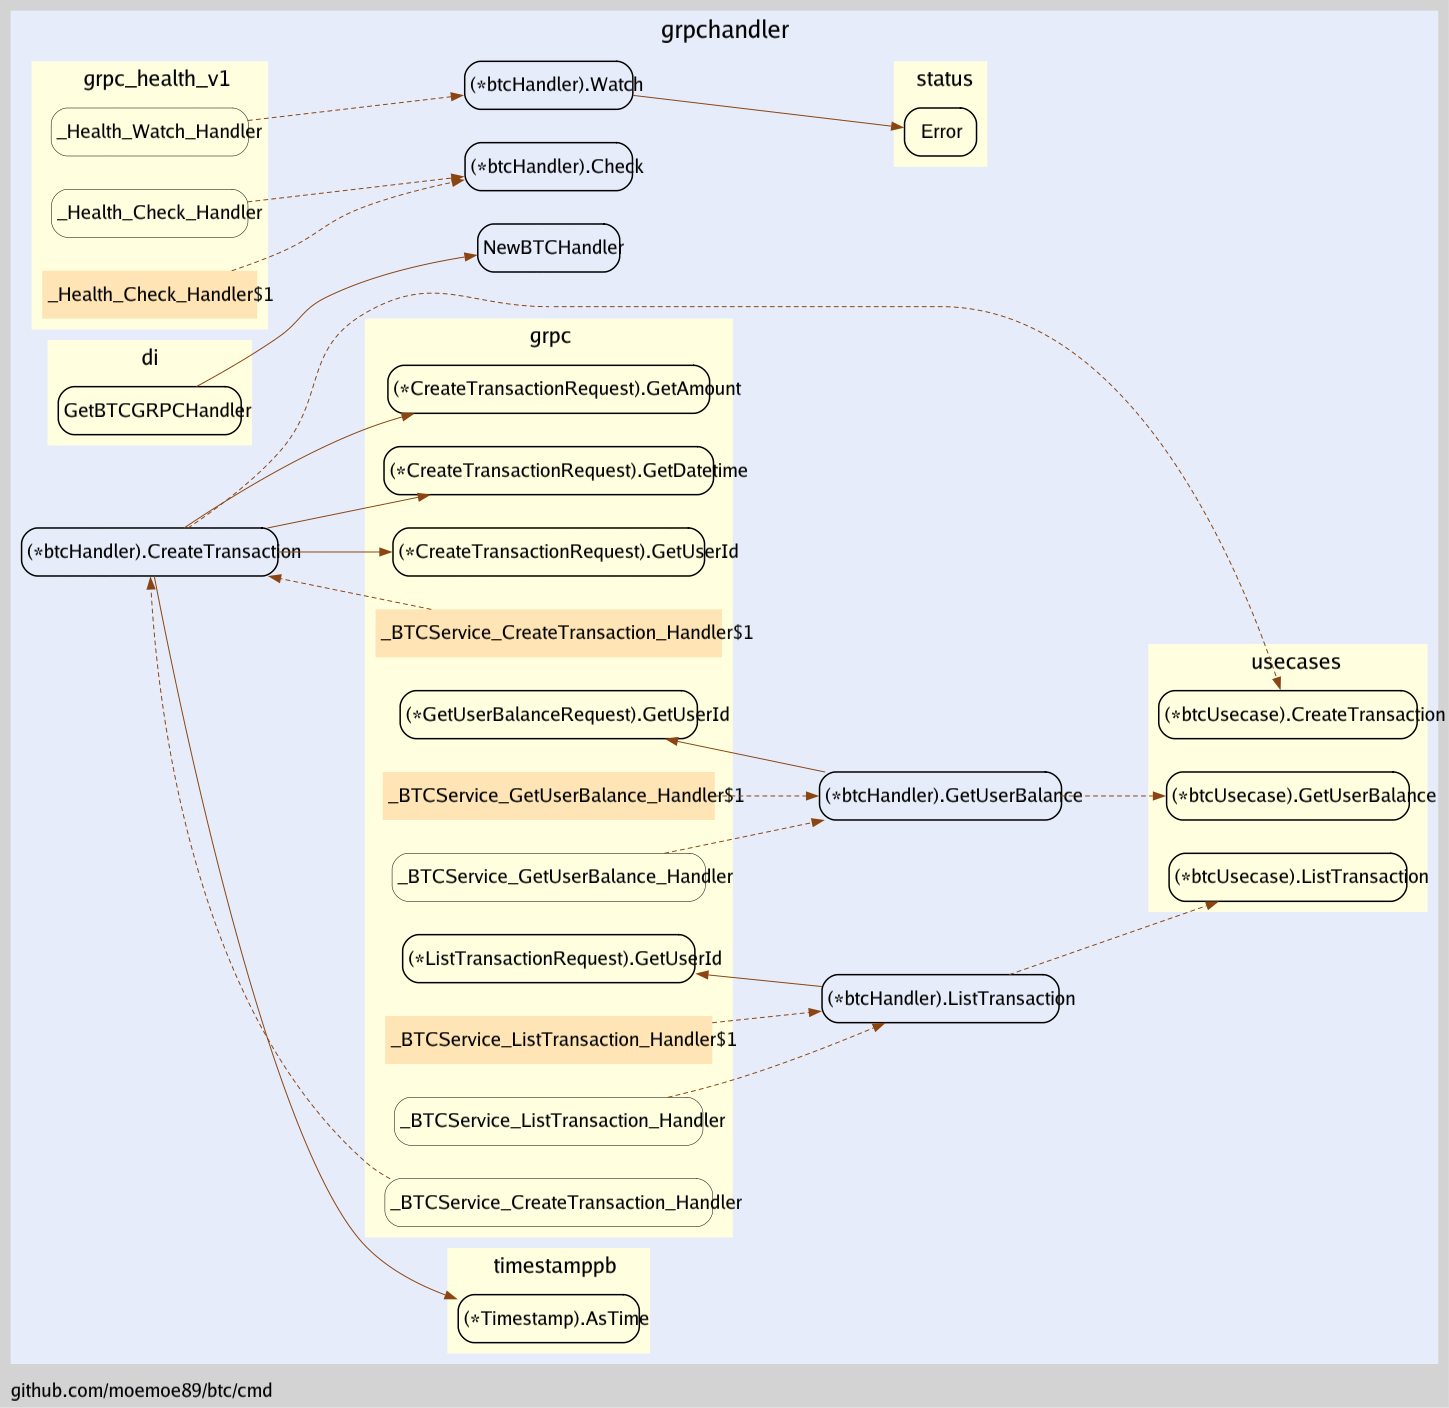
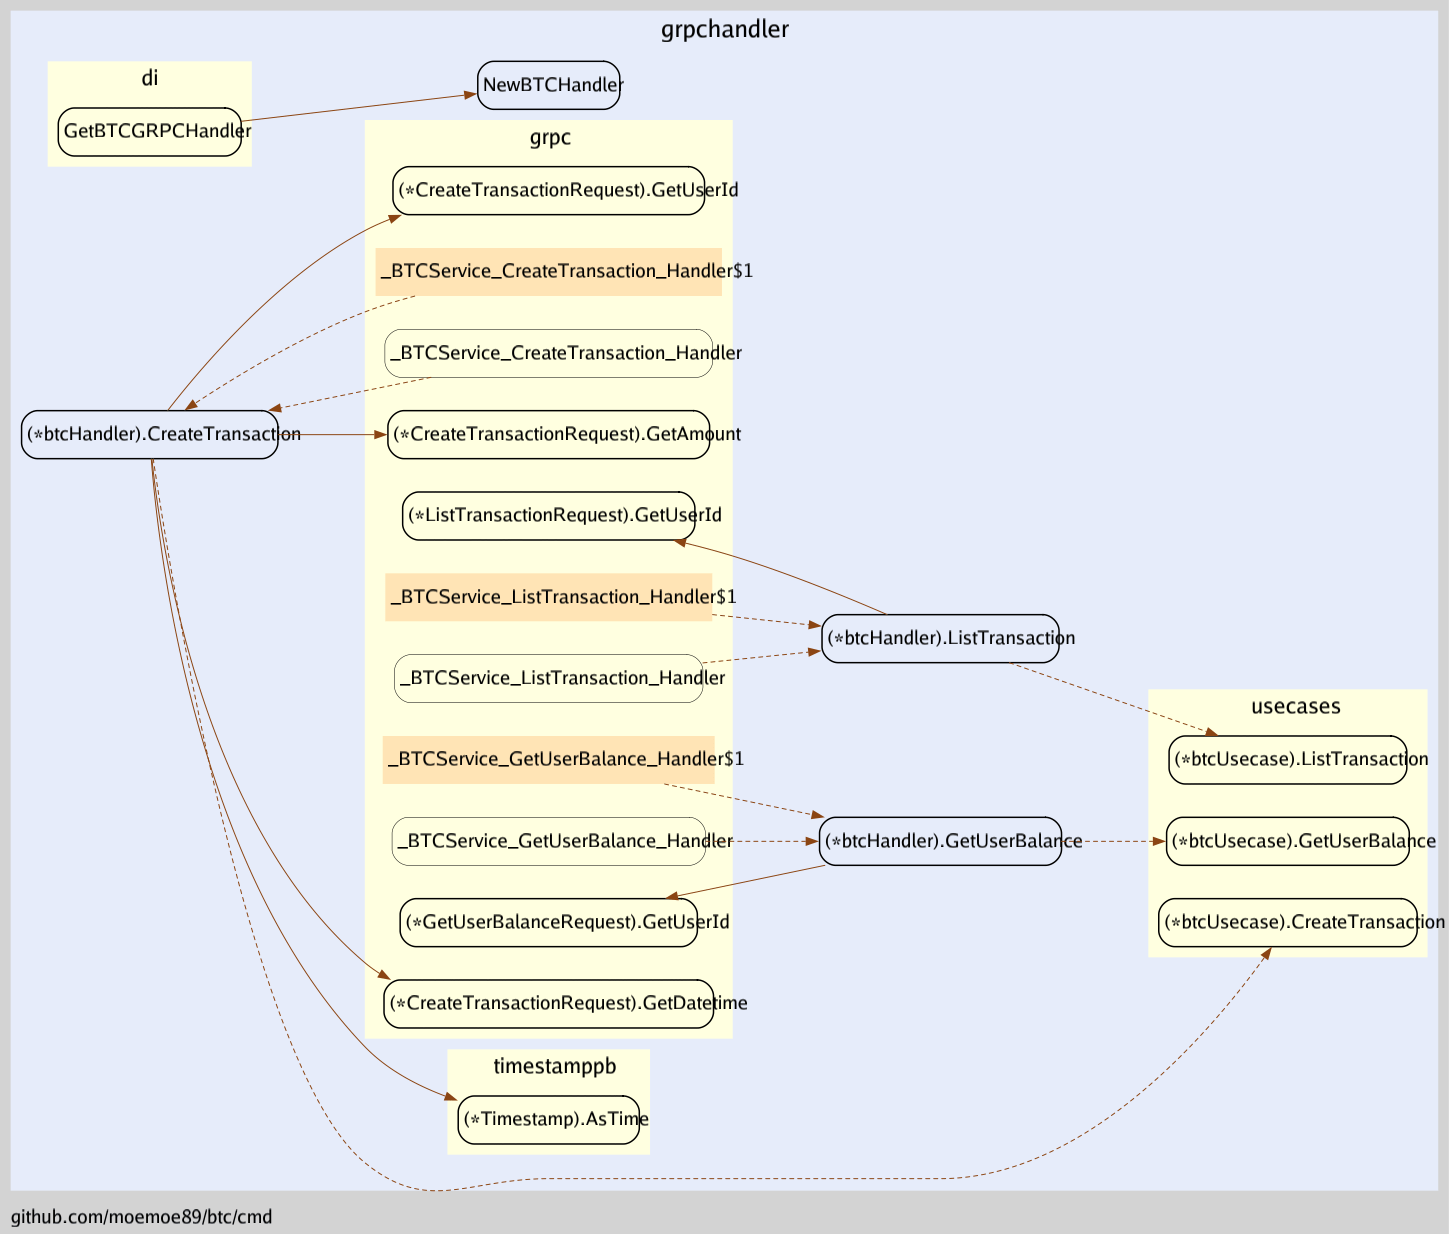
Generate Files

diff --git a/api/go/grpc/service.pb.go b/api/go/grpc/service.pb.go
@@ -34,7 +34,7 @@ type CreateTransactionRequest struct {
 	UserId int64 `protobuf:"varint,1,opt,name=user_id,json=userId,proto3" json:"user_id,omitempty"`
 	// (Required) The date and time of the created transaction.
 	Datetime *timestamppb.Timestamp `protobuf:"bytes,2,opt,name=datetime,proto3" json:"datetime,omitempty"`
-	// (Required) The amount of the transaction, should be not 0.
+	// (Required) The amount of the transaction, should not be 0.
 	Amount float32 `protobuf:"fixed32,3,opt,name=amount,proto3" json:"amount,omitempty"`
 }
 

diff --git a/README.md b/README.md
@@ -126,10 +126,8 @@ To generate the RPC sequence diagram, there's a Makefile command that can be use
 3. For generates all RPC's, use wildcard * in the parameter `make sequence-diagram RPC=*`.
 
 <!-- start rpc sequence diagram doc -->
-1. [Check RPC - Sequence Diagram](docs/sequence-diagrams/rpc/check.md)
-2. [CreateTransaction RPC - Sequence Diagram](docs/sequence-diagrams/rpc/create-transaction.md)
-3. [GetUserBalance RPC - Sequence Diagram](docs/sequence-diagrams/rpc/get-user-balance.md)
-4. [ListTransaction RPC - Sequence Diagram](docs/sequence-diagrams/rpc/list-transaction.md)
-5. [Watch RPC - Sequence Diagram](docs/sequence-diagrams/rpc/watch.md)
+1. [CreateTransaction RPC - Sequence Diagram](docs/sequence-diagrams/rpc/create-transaction.md)
+2. [GetUserBalance RPC - Sequence Diagram](docs/sequence-diagrams/rpc/get-user-balance.md)
+3. [ListTransaction RPC - Sequence Diagram](docs/sequence-diagrams/rpc/list-transaction.md)
 
 <!-- end rpc sequence diagram doc -->

diff --git a/scripts/generate-diagram/README.md b/scripts/generate-diagram/README.md
@@ -12,4 +12,4 @@
 2. Run this command `go run ./scripts/generate-diagram`.
 3. Check the [docs/diagrams](../../docs/diagrams) from the root directory.
 
-<!-- version:1a1e46e903f32ecdb73689e14dd6b2ab930375af: -->
+<!-- version:3d3ec51bab02e69efd529562884c884767864974: -->
